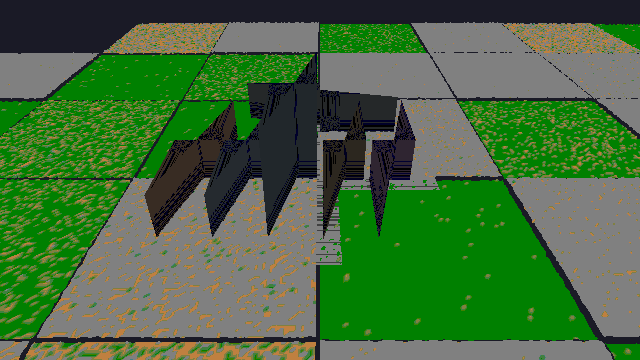
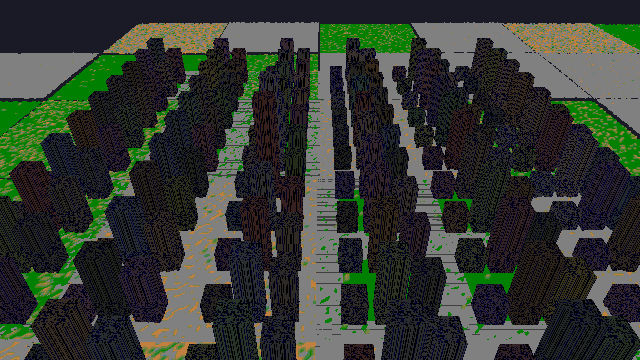
Add dense 216-building demo city

diff --git a/citybuilder/main.py b/citybuilder/main.py
@@ -169,32 +169,57 @@ class App:
     # --- demo city -------------------------------------------------------
     def _build_demo_city(self):
         g = self.road_graph
-        a = g.add_node(-40.0, 0.0)
-        b = g.add_node(40.0, 0.0)
-        g.add_segment(a, b)
-        c = g.add_node(0.0, -40.0)
-        d = g.add_node(0.0, 40.0)
-        g.add_segment(c, d)
+        # A deterministic 7x7 road grid gives the first playable scene enough
+        # frontage to exercise chunk streaming, road ribbons, and procedural
+        # growth without introducing a second world-generation system.
+        grid = list(range(-96, 97, 32))
+        for z in grid:
+            for x0, x1 in zip(grid, grid[1:]):
+                g.add_segment(g.add_node(x0, z), g.add_node(x1, z))
+        for x in grid:
+            for z0, z1 in zip(grid, grid[1:]):
+                g.add_segment(g.add_node(x, z0), g.add_node(x, z1))
         self.lot_gen.generate()
-        import numpy as np
         from citybuilder.world.buildings import BuildingDef
         bdefs = {
             "generic": BuildingDef("generic", floor_count=4),
+            "low": BuildingDef("low", floor_count=2, floor_height=3.5),
+            "mid": BuildingDef("mid", floor_count=6, floor_height=3.5),
             "tower": BuildingDef("tower", floor_count=10, floor_height=3.5),
         }
         bid = 0
-        for lot in self.lot_gen.generate().values():
-            # Keep the tallest demo building away from the outer road ends.
-            # At the fixed 60-unit verification distance, a tower on the
-            # western edge sits almost on top of the camera at yaw 180° and
-            # legitimately fills the whole frame, hiding the terrain.
-            center_x = sum(p[0] for p in lot.footprint) / len(lot.footprint)
-            center_z = sum(p[1] for p in lot.footprint) / len(lot.footprint)
-            central = abs(center_x) < 20.0 and abs(center_z) < 20.0
-            key = "tower" if central and (bid % 2 == 0) else "generic"
-            self.buildings[bid] = make_building(
-                bid, key, lot.footprint, 42 + bid, bdefs)
-            bid += 1
+        # Fill the 6x6 blocks between roads.  Six small footprints per block
+        # gives 216 buildings while keeping every footprint close to a road
+        # frontage and leaving enough gaps for the terrain to show through.
+        for block_z in range(-96, 96, 32):
+            for block_x in range(-96, 96, 32):
+                block_center_x = block_x + 16
+                block_center_z = block_z + 16
+                for dx, dz in ((-8, -8), (0, -8), (8, -8),
+                               (-8, 8), (0, 8), (8, 8)):
+                    center_x = block_center_x + dx
+                    center_z = block_center_z + dz
+                    half = 3.0
+                    footprint = [
+                        (center_x - half, center_z - half),
+                        (center_x + half, center_z - half),
+                        (center_x + half, center_z + half),
+                        (center_x - half, center_z + half),
+                    ]
+                    # Keep the tallest demo buildings away from the outer
+                    # road ends so rear-angle checks retain terrain visibility.
+                    central = abs(center_x) < 20.0 and abs(center_z) < 20.0
+                    if central and bid % 11 == 0:
+                        key = "tower"
+                    elif bid % 3 == 0:
+                        key = "low"
+                    elif bid % 3 == 1:
+                        key = "mid"
+                    else:
+                        key = "generic"
+                    self.buildings[bid] = make_building(
+                        bid, key, footprint, 42 + bid, bdefs)
+                    bid += 1
 
     # --- frame -----------------------------------------------------------
     def on_draw(self, dt: float = 0.0):

diff --git a/citybuilder/tests/test_screenshot.py b/citybuilder/tests/test_screenshot.py
@@ -29,6 +29,8 @@ def _assert_real_image(rgba: np.ndarray) -> None:
 def test_headless_app_builds_and_renders_nonflat(tmp_path):
     app = _build_headless_app()
     assert app.renderer.terrain_count == 0  # set_scene not called yet
+    assert app.road_graph.num_segments() >= 80
+    assert len(app.buildings) >= 200
     import math
     app.camera.yaw = 0.0
     app.camera.distance = 60.0

diff --git a/PROGRESS.md b/PROGRESS.md
@@ -9,21 +9,22 @@
 - Depth attachment and depth testing are present in the renderer.
 - Fixed the rear-angle regression: the demo's first tower was placed almost on top of the camera at yaw 180°. Towers are now restricted to the central city area; the complete 12-angle sweep passes.
 - Implemented independent per-chunk static terrain GPU meshes. Each visible chunk has its own vertex/index buffers and draw call, so future streaming edits need not invalidate the entire terrain scene.
-- Current automated result: 46 tests passed, including the 12-angle rotation sweep.
+- Expanded the deterministic demo to an 84-segment 7x7 road grid with 216 varied procedural buildings across the blocks.
+- Current automated result: 46 tests passed, screenshots rendered at 0°, 45°, and 90°, and the 12-angle rotation sweep passed. `scripts/check_all.sh` passes.
 
 ## Broken
 
-- The demo scene currently contains only a small number of buildings and simple crossing roads; it is not yet the required dense 200-building showcase.
+- The dense demo is a static showcase; zoning-driven growth and citizen simulation are not yet connected to the visible buildings.
 - GUI window mapping remains compositor-dependent; headless rendering is the reliable verification path in this environment.
 - M1.5 features are not implemented: terraforming, water/rivers, world-generation settings, per-city saves, and the map editor.
 - Building placement mode is currently a keyboard toggle only; it does not yet place a building from a mouse ghost preview.
 
 ## Next
 
-1. Expand the deterministic demo city to at least 200 varied buildings with visible roads and hills.
-2. Add the M1 visual pass: outlines, banded lighting, palette lookup, and texel snapping.
-3. Add a GPU-synchronized benchmark at 100, 1,000, and 5,000 buildings.
-4. Continue with terrain picking and validated two-click road placement.
+1. Add the M1 visual pass: outlines, banded lighting, palette lookup, and texel snapping.
+2. Add a GPU-synchronized benchmark at 100, 1,000, and 5,000 buildings.
+3. Continue with terrain picking and validated two-click road placement.
+4. Implement a building ghost preview and pinned manual placement.
 
 ## Verification commands
 
